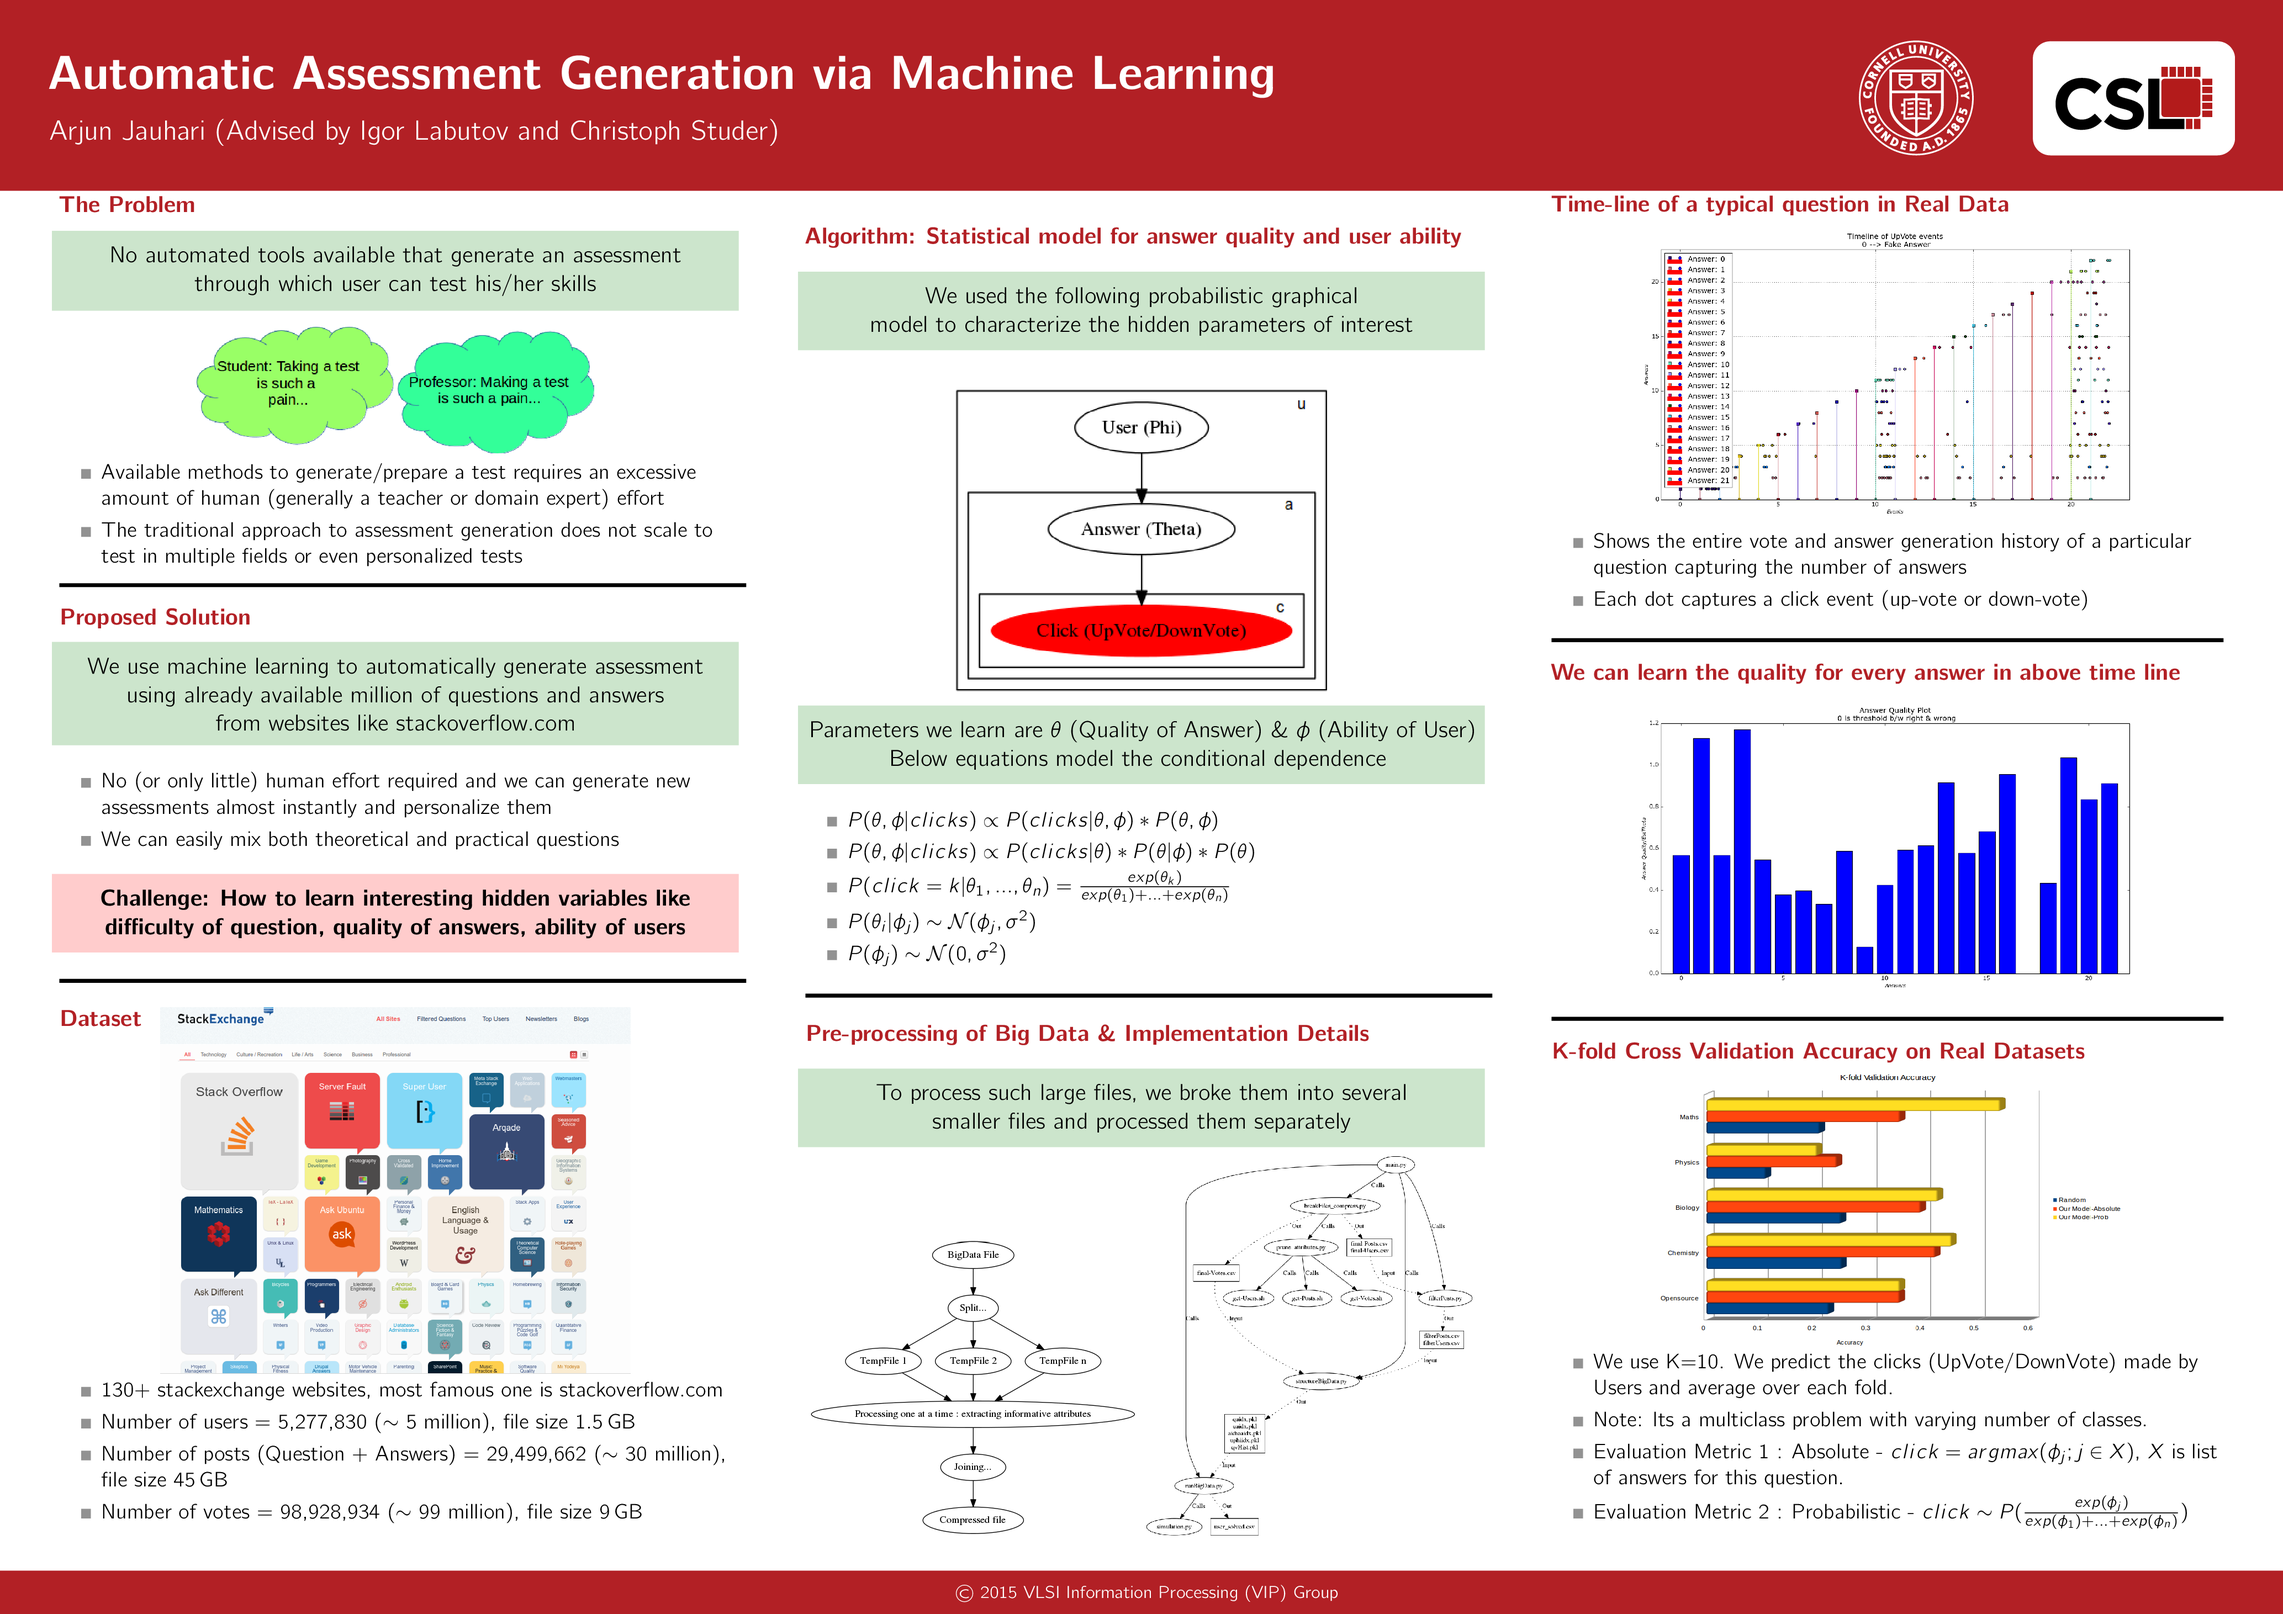
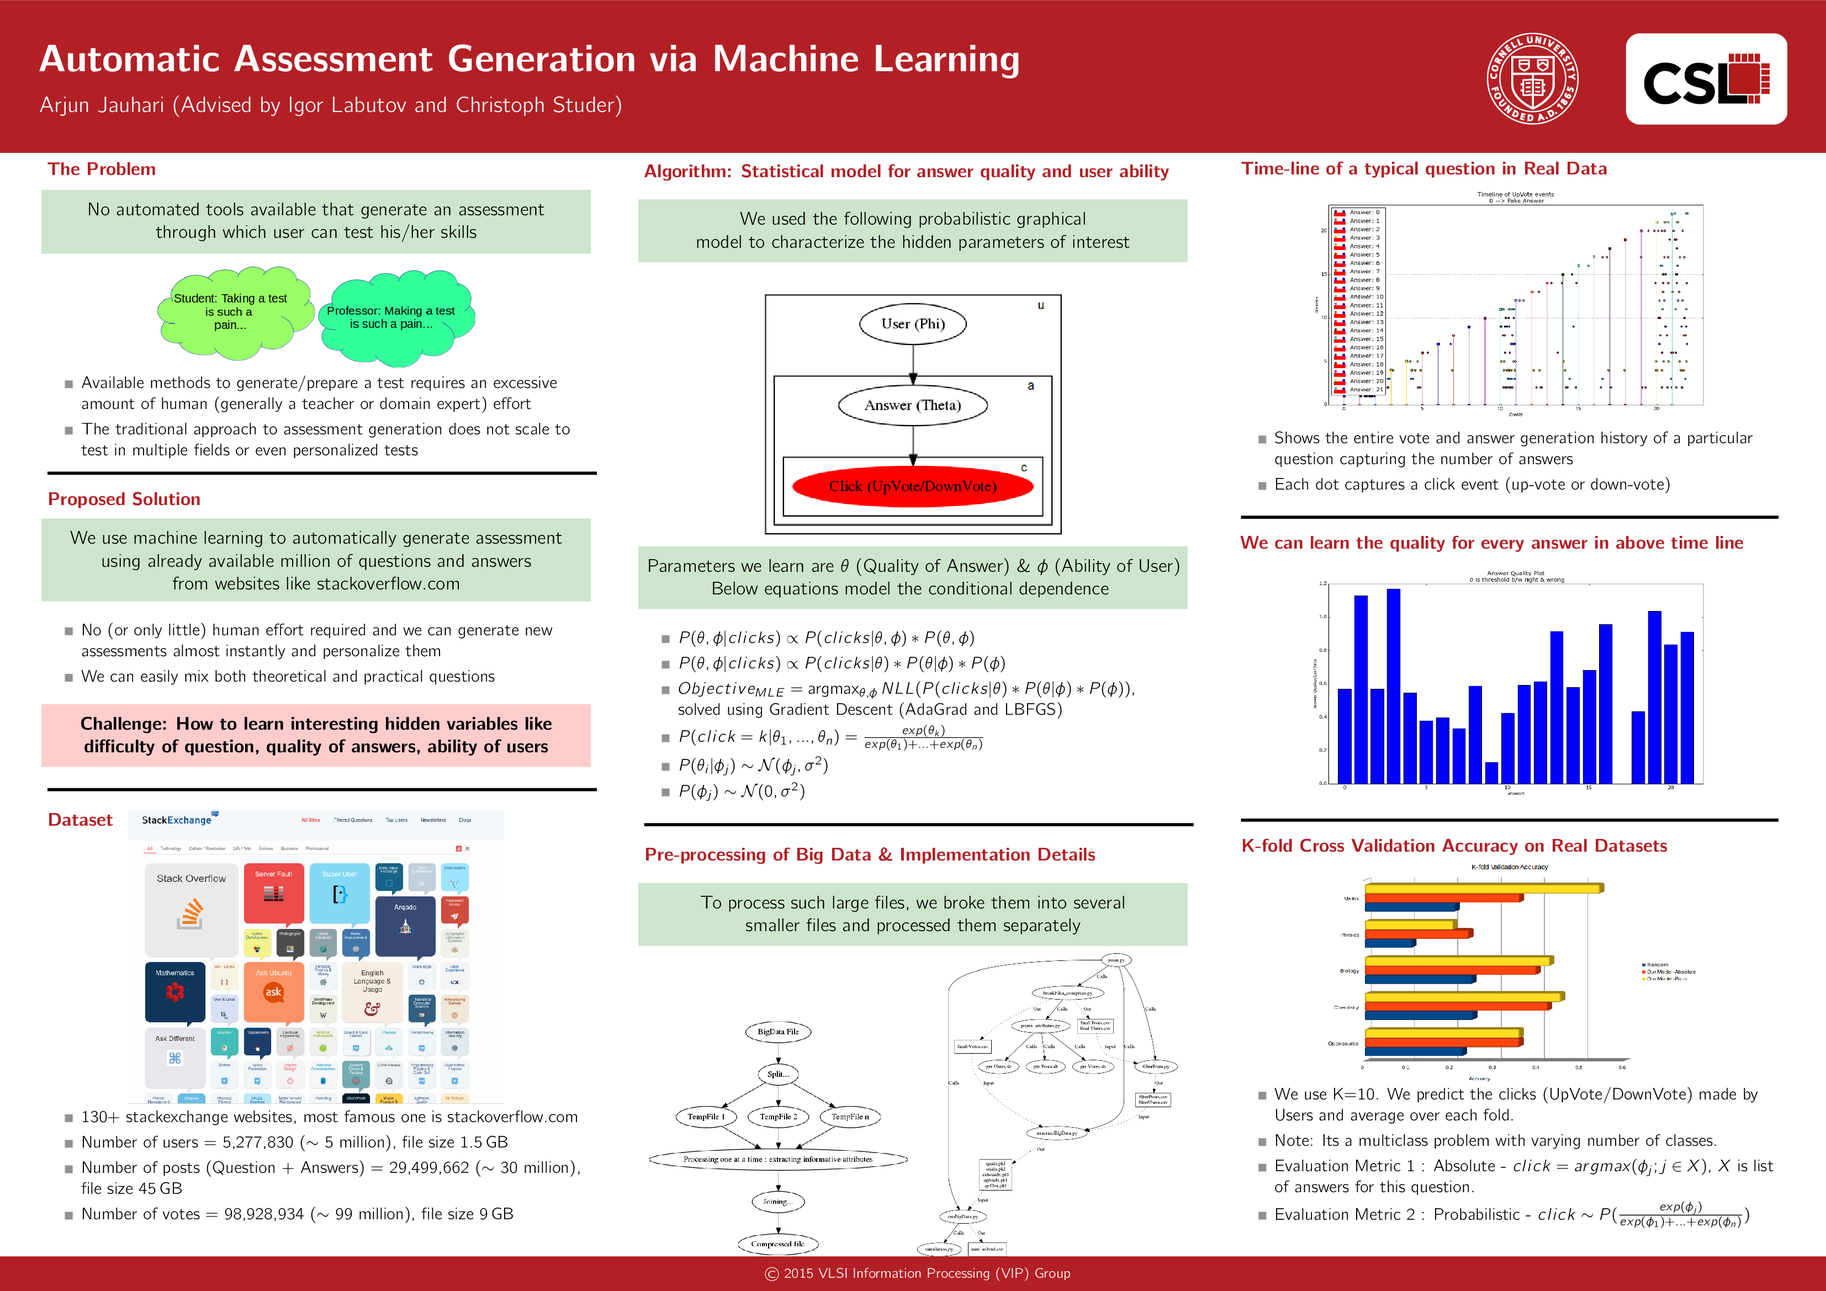
Updated poster

diff --git a/documentation/AJPoster/AJPoster.tex b/documentation/AJPoster/AJPoster.tex
@@ -22,6 +22,8 @@
 \newcommand{\defn}{\ensuremath{:  =}}
 
 \def\SW{\mathsf{SWAP}}
+\DeclareMathOperator*{\argmaxB}{argmax}
+\newcommand{\argmaxD}{\arg\!\max}
 
 %%%%%%%%%%%%%%%%%%%%%%%%%%%%%%%%%%%%%%%%%%%%%%%%%%%%%%%%%%
 % Beamer-Poster Settings
@@ -176,8 +178,8 @@
 
 \begin{itemize}
     \item $P(\theta, \phi | clicks) \propto P(clicks | \theta, \phi) * P(\theta,\phi)$\\
-    \item $P(\theta, \phi | clicks) \propto P(clicks | \theta) * P(\theta | \phi)
-    * P(\theta)$\\
+    \item $P(\theta, \phi | clicks) \propto P(clicks | \theta) * P(\theta | \phi) * P(\phi)$\\
+    \item $Objective_{MLE} = \argmaxD_{\theta,\phi} NLL(P(clicks | \theta) * P(\theta | \phi) * P(\phi))$, solved using Gradient Descent (AdaGrad and LBFGS)\\
    \item  $P(click = k | \theta_1, ..., \theta_n) = \frac{exp(\theta_k)}{exp(\theta_1) + ... + exp(\theta_n)}$ \\
    \item  $P(\theta_i | \phi_j) \sim \mathcal{N}(\phi_j, \sigma^2)$ \\
    %\item  &P(\theta_i | \phi_j) = \frac{1}{\sqrt{2\pi\sigma^2}} exp(\frac{-|\theta_i - \phi_j|^2}{2\sigma^2}) \\
